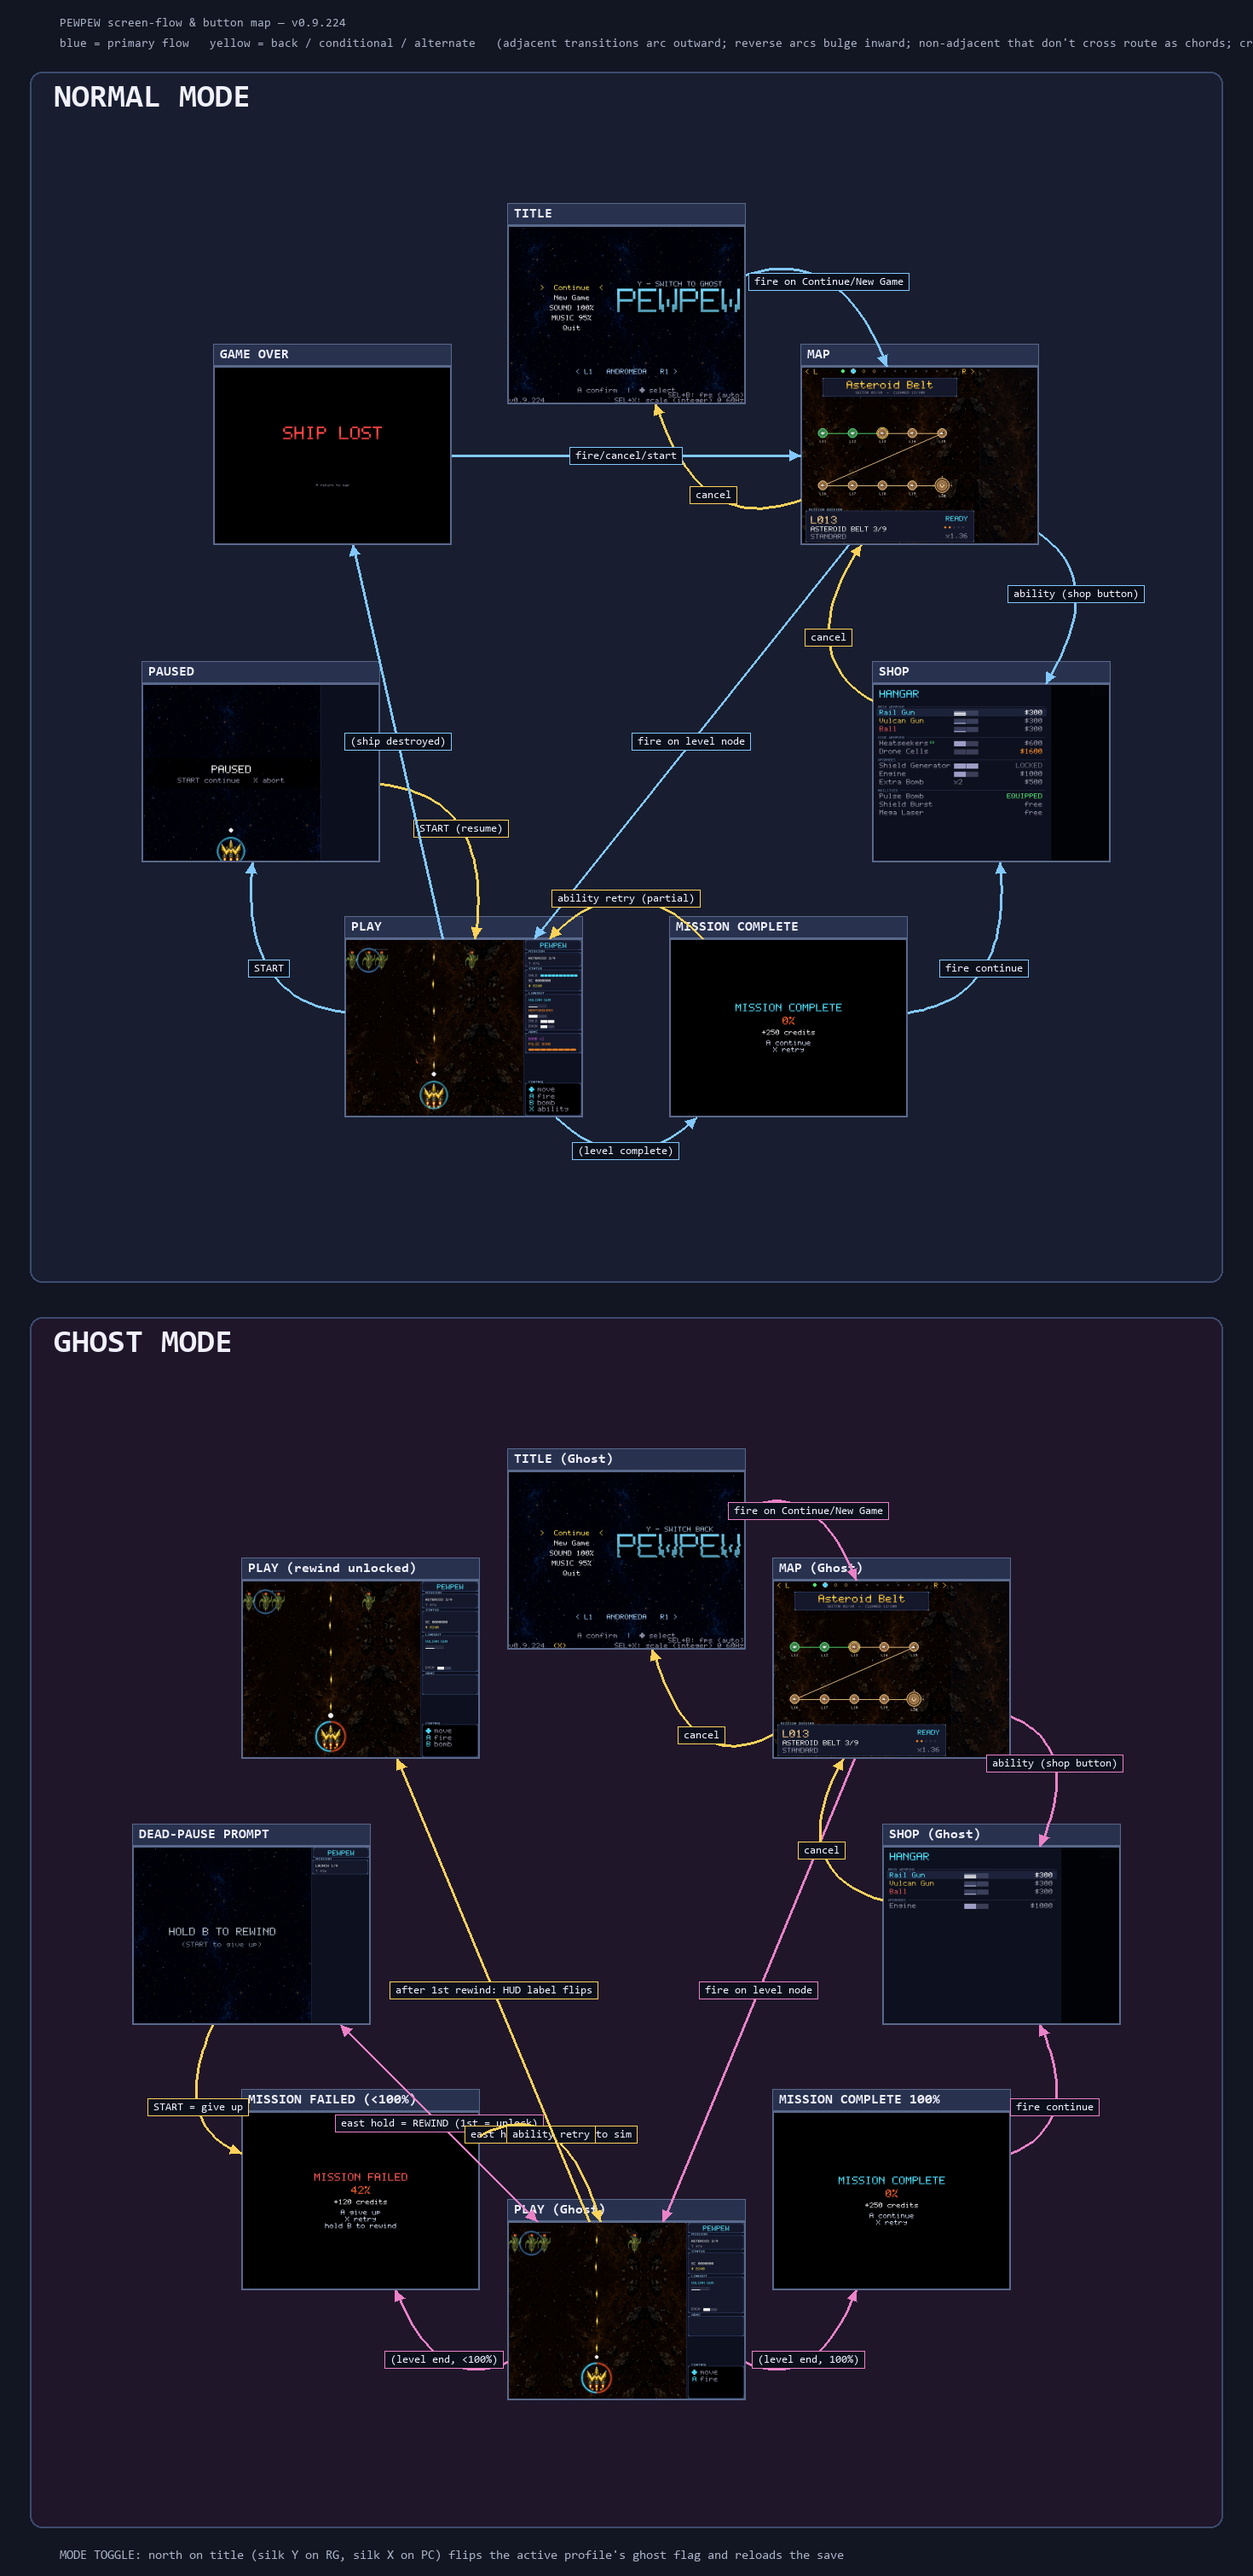
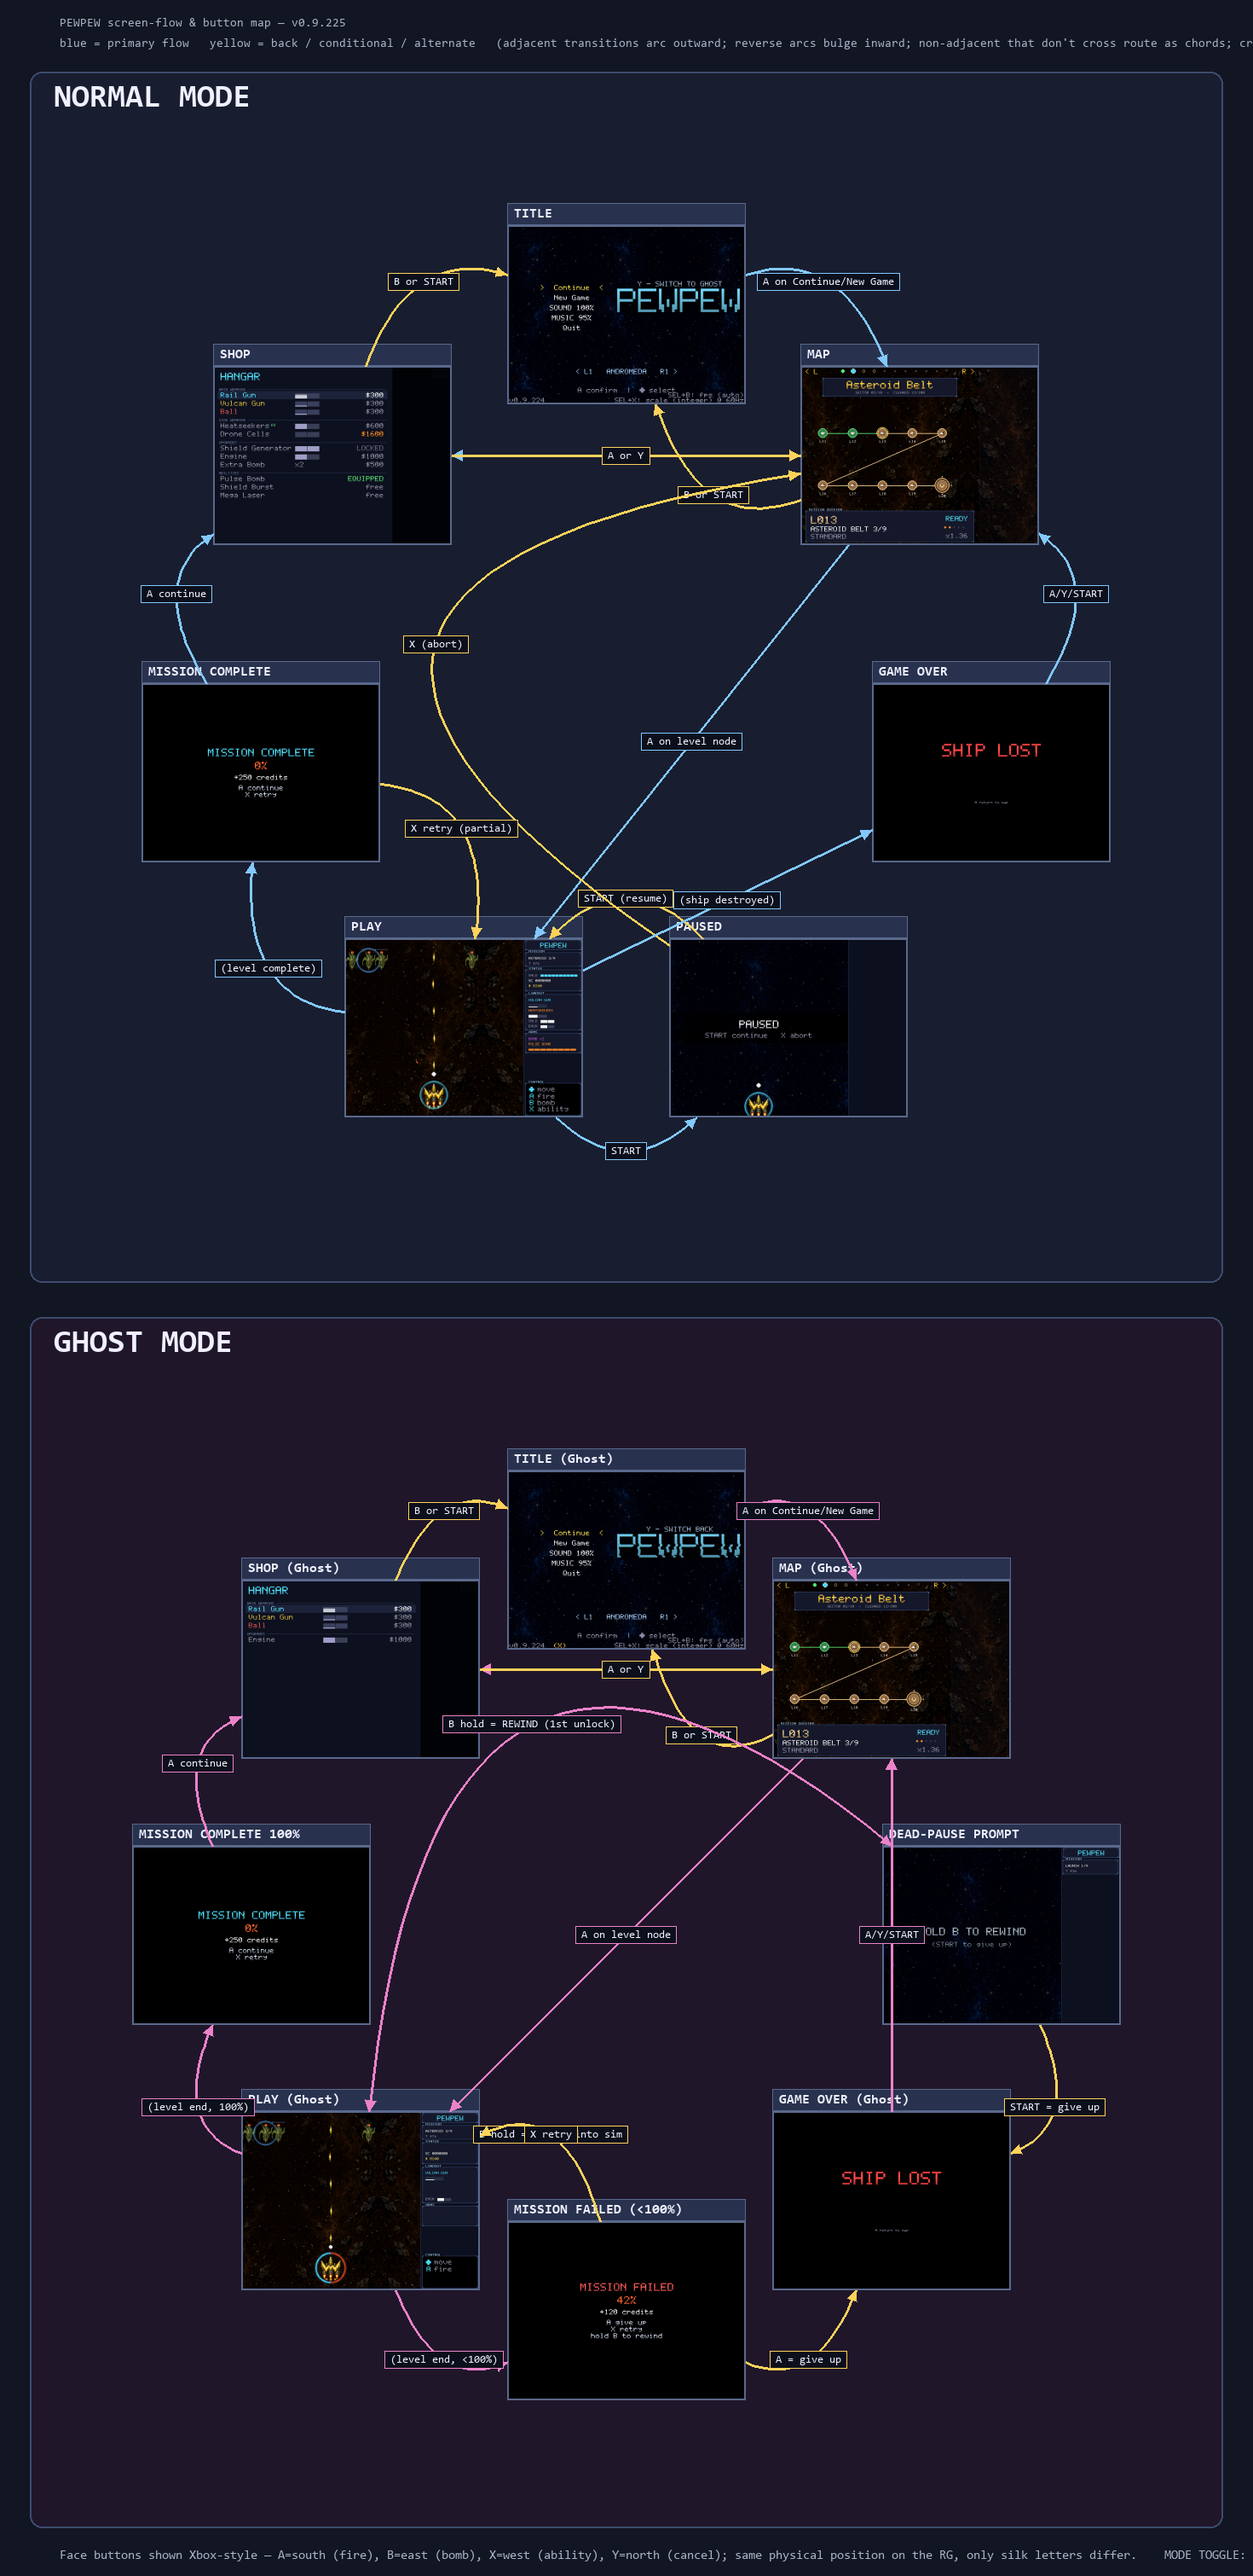
v0.9.225: flow diagram — Xbox face-button labels + real-flow corrections
Arrow labels now use Xbox convention (A=south, B=east, X=west,
Y=north) instead of action names. Same physical position on every
controller; RG silks differ but the diagram normalises.

Real-flow corrections after auditing the code:
- NORMAL map→shop: Y (was wrongly labelled "ability")
- NORMAL map→title: B or START (was "cancel")
- NORMAL shop→title: B or START (was missing)
- NORMAL paused→map: X abort (was missing)
- NORMAL shop→map: A or Y (was just "cancel")
- GHOST adds a dedicated GAME OVER tile + arrows from deadp/fail_g
  (give-up paths) — previously deadp→fail_g was wrong (START goes
  through GameOverScreen, not back to the fail banner)
- GHOST gameover→map (was implicitly going elsewhere)

Both modes still hit only 1 interior crossing, escaped to outer-
arc lanes by the existing routing logic. NORMAL: 9 arcs + 1 outer.
GHOST: 10 arcs + 1 outer.

diff --git a/_flow_diagram.py b/_flow_diagram.py
@@ -26,10 +26,13 @@ Routing
   bulge inward for a clean visual split
 - non-adjacent → straight chord through the interior
 
-Button labels reference the PC silk letters (this diagram renders on
-Windows); in-game labels follow BUTTON_SCHEME and swap on the RG.
-Face-position names (north/east/west/south) are used where the
-binding is the same on every controller.
+Button labels use the Xbox face-button convention:
+  A = south (fire),  B = east (bomb),
+  X = west (ability), Y = north (cancel).
+Same physical position on every controller — only the silk letters
+differ on the RG (the RG silks south=B, east=A, west=Y, north=X, so
+"A on Continue" on this diagram means the south face button, which
+is silk B on the RG hardware).
 """
 import os, sys, math, itertools
 os.environ.setdefault("SDL_VIDEODRIVER", "dummy")
@@ -102,45 +105,55 @@ GHOST = [
     ("deadp",   "play_ghost_dead_pause.png","DEAD-PAUSE PROMPT"),
     ("win_g",   "play_win.png",             "MISSION COMPLETE 100%"),
     ("fail_g",  "play_ghost_fail.png",      "MISSION FAILED (<100%)"),
-    ("rewu",    "play_ghost_rewind_unlocked.png",
-                                            "PLAY (rewind unlocked)"),
+    ("gameover_g","gameover.png",           "GAME OVER (Ghost)"),
 ]
 
 # Arrows: (src_id, dst_id, label, color_key)
+# Verified against the actual code in pewpew.py — TitleScreen / MapScreen /
+# ShopScreen / PlayState / GameOverScreen control handlers + App._transition.
 NORMAL_ARROWS = [
-    ("title", "map",     "fire on Continue/New Game", "blue"),
-    ("map",   "play",    "fire on level node",        "blue"),
-    ("map",   "shop",    "ability (shop button)",     "blue"),
-    ("shop",  "map",     "cancel",                    "yellow"),
-    ("map",   "title",   "cancel",                    "yellow"),
-    ("play",  "paused",  "START",                     "blue"),
-    ("paused","play",    "START (resume)",            "yellow"),
-    ("play",  "win",     "(level complete)",          "blue"),
-    ("play",  "gameover","(ship destroyed)",          "blue"),
-    ("win",   "shop",    "fire continue",             "blue"),
-    ("win",   "play",    "ability retry (partial)",   "yellow"),
-    ("gameover","map",   "fire/cancel/start",         "blue"),
+    ("title", "map",     "A on Continue/New Game", "blue"),
+    ("map",   "play",    "A on level node",        "blue"),
+    ("map",   "shop",    "Y",                      "blue"),
+    ("shop",  "map",     "A or Y",                 "yellow"),
+    ("map",   "title",   "B or START",             "yellow"),
+    ("shop",  "title",   "B or START",             "yellow"),
+    ("play",  "paused",  "START",                  "blue"),
+    ("paused","play",    "START (resume)",         "yellow"),
+    ("paused","map",     "X (abort)",              "yellow"),
+    ("play",  "win",     "(level complete)",       "blue"),
+    ("play",  "gameover","(ship destroyed)",       "blue"),
+    ("win",   "shop",    "A continue",             "blue"),
+    ("win",   "play",    "X retry (partial)",      "yellow"),
+    ("gameover","map",   "A/Y/START",              "blue"),
 ]
 
 GHOST_ARROWS = [
-    ("title_g", "map_g",  "fire on Continue/New Game",        "blue"),
-    ("map_g",   "play_g", "fire on level node",               "blue"),
-    ("map_g",   "shop_g", "ability (shop button)",            "blue"),
-    ("shop_g",  "map_g",  "cancel",                           "yellow"),
-    ("map_g",   "title_g","cancel",                           "yellow"),
-    ("play_g",  "deadp",  "(player dies — 1-hit kill)",       "blue"),
-    ("deadp",   "play_g", "east hold = REWIND (1st = unlock)","blue"),
-    ("deadp",   "fail_g", "START = give up",                  "yellow"),
-    ("play_g",  "win_g",  "(level end, 100%)",                "blue"),
-    ("play_g",  "fail_g", "(level end, <100%)",               "blue"),
-    ("win_g",   "shop_g", "fire continue",                    "blue"),
-    ("fail_g",  "play_g", "east hold = rewind into sim",      "yellow"),
-    ("fail_g",  "play_g", "ability retry",                    "yellow"),
-    ("play_g",  "rewu",   "after 1st rewind: HUD label flips","yellow"),
+    ("title_g",  "map_g",     "A on Continue/New Game",       "blue"),
+    ("map_g",    "play_g",    "A on level node",              "blue"),
+    ("map_g",    "shop_g",    "Y",                            "blue"),
+    ("shop_g",   "map_g",     "A or Y",                       "yellow"),
+    ("map_g",    "title_g",   "B or START",                   "yellow"),
+    ("shop_g",   "title_g",   "B or START",                   "yellow"),
+    ("play_g",   "deadp",     "(1-hit kill)",                 "blue"),
+    ("deadp",    "play_g",    "B hold = REWIND (1st unlock)", "blue"),
+    ("deadp",    "gameover_g","START = give up",              "yellow"),
+    ("play_g",   "win_g",     "(level end, 100%)",            "blue"),
+    ("play_g",   "fail_g",    "(level end, <100%)",           "blue"),
+    ("win_g",    "shop_g",    "A continue",                   "blue"),
+    ("fail_g",   "play_g",    "B hold = rewind into sim",     "yellow"),
+    ("fail_g",   "play_g",    "X retry",                      "yellow"),
+    ("fail_g",   "gameover_g","A = give up",                  "yellow"),
+    ("gameover_g","map_g",    "A/Y/START",                    "blue"),
 ]
 
-MODE_TOGGLE = ("MODE TOGGLE: north on title (silk Y on RG, silk X on PC) "
-               "flips the active profile's ghost flag and reloads the save")
+MODE_TOGGLE = ("Face buttons shown Xbox-style — A=south (fire), B=east (bomb), "
+               "X=west (ability), Y=north (cancel); same physical position on "
+               "the RG, only silk letters differ.    "
+               "MODE TOGGLE: Y on title flips the active profile's ghost flag "
+               "and reloads the save.    "
+               "GHOST: after the first rewind, the HUD's B-row label flips to "
+               "'rewind' (see screenshots/play_ghost_rewind_unlocked.png).")
 
 # ── Fonts ───────────────────────────────────────────────────────────
 def font(size, bold=False):

diff --git a/pewpew.py b/pewpew.py
@@ -100,7 +100,7 @@ import pygame
 # features, major for big-rewrites. Skipping the bump means the next user
 # sees the same number and can't tell if they're on the latest build.
 # ──────────────────────────────────────────────────────────────────────────
-VERSION = "0.9.224"
+VERSION = "0.9.225"
 
 # ──────────────────────────────────────────────────────────────────────────
 # Ghost Mode UI suppression
